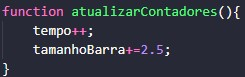
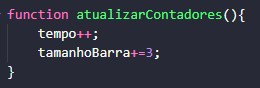
Alterando imagens

diff --git a/README.md b/README.md
@@ -64,7 +64,7 @@
 ### Contadores
 <img src='img/contadores.jpg' />
 
-<p>A function contadores é responsável por aumentar +1 no tempo e +2.5 no tamanho da barra do percurso a cada segundo. Mas para que isso sejá possível, foi preciso colocar o código "intervalo = setInterval(atualizarContadores, 1000)" na hora de iniciar o jogo.</p> 
+<p>A function contadores é responsável por aumentar +1 no tempo e +3 no tamanho da barra do percurso a cada segundo. Mas para que isso sejá possível, foi preciso colocar o código "intervalo = setInterval(atualizarContadores, 1000)" na hora de iniciar o jogo.</p> 
 
 ### Inicio function animar
 <img src='img/inicioanimar.jpg' />
